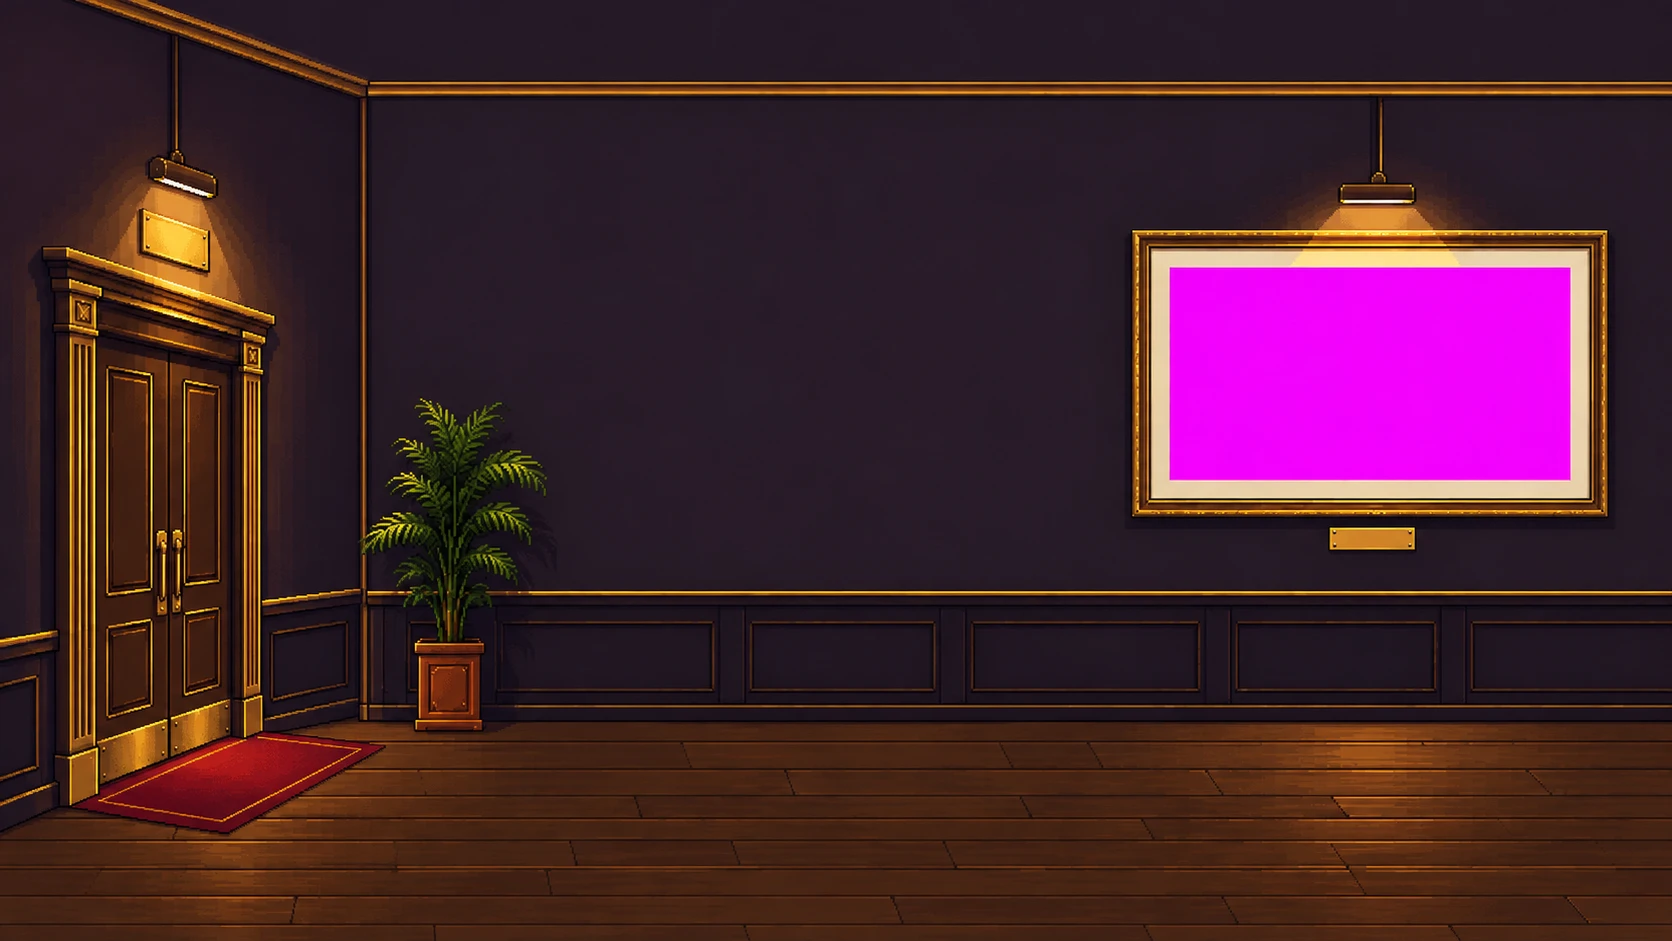
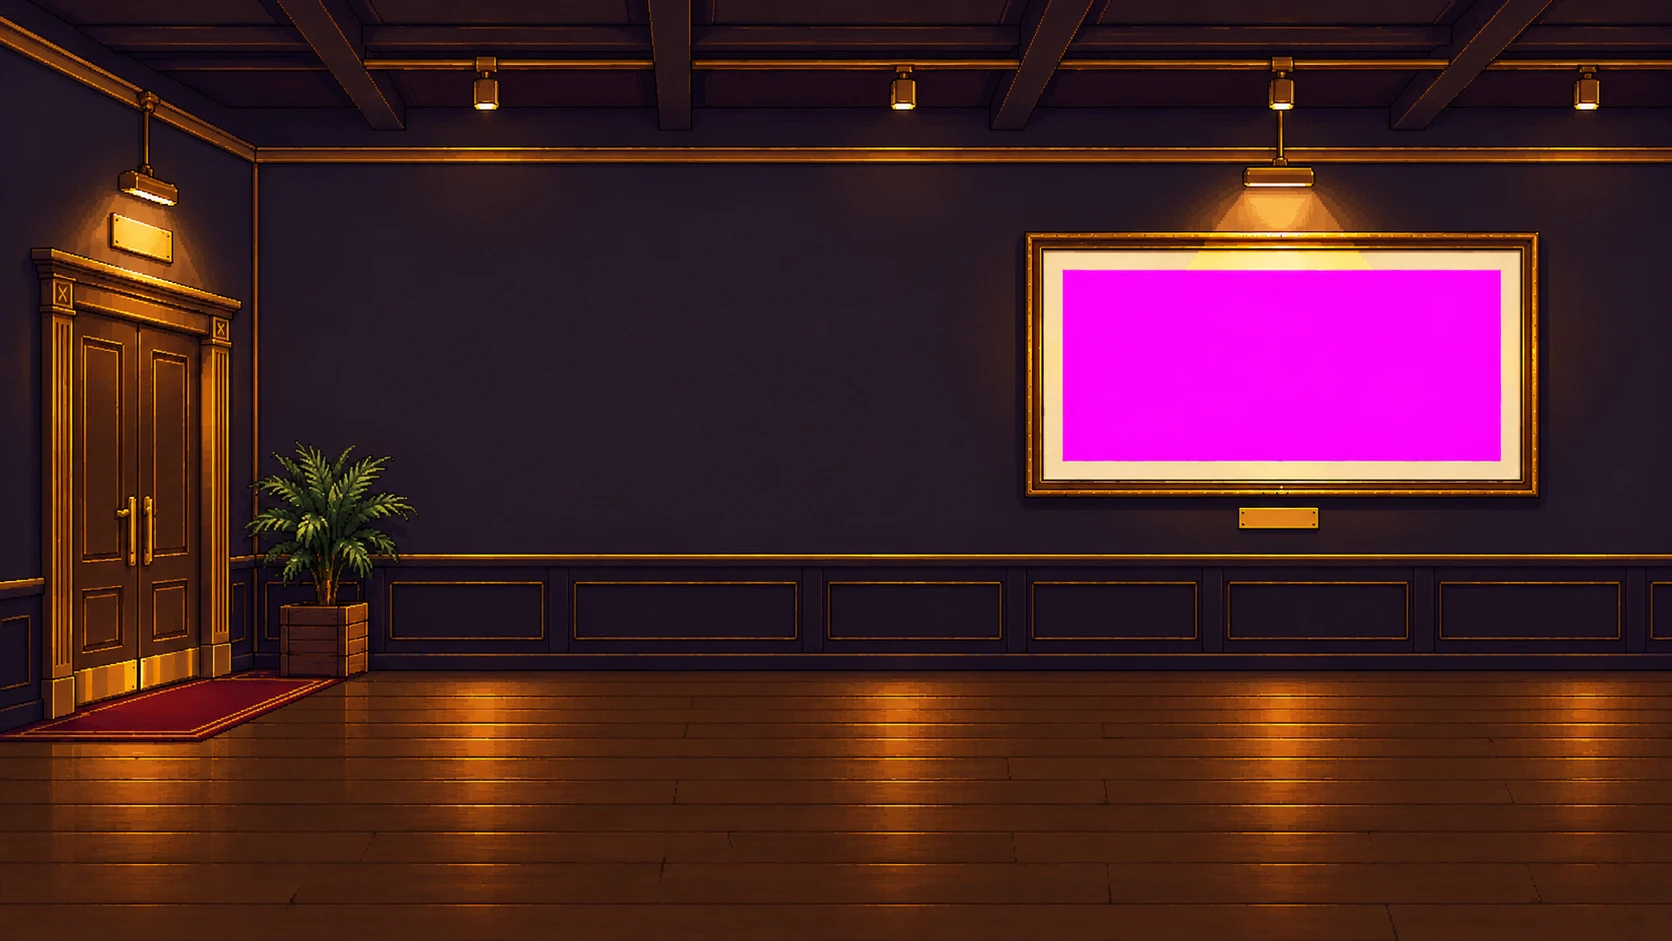
Gallery: new entrance, wall and exit art
Swaps in the new gallery images (beamed ceiling, track lights) and
re-measures frames, plaques and doors. The new exit image's rooftop
parapet sits higher than the rooftop footer art, so build_gallery.py
now remaps the rooftop's rows in three bands (sky, parapet, floor)
with nearest-row sampling so the two meet exactly; rooftop floor,
bench and bulb positions follow the remap.

diff --git a/js/main.js b/js/main.js
@@ -148,12 +148,12 @@
   const GALLERY = {
     w: 6496, h: 941,
     floor: 770,                 // his feet on the wooden floor
-    enter: 165, exit: 3930,     // double doors he comes in by; the door out to the roof
-    frames: [[1170, 268, 400, 212], [2124, 232, 165, 232], [2474, 242, 404, 220], [3301, 277, 355, 190]],
-    plaques: [[1330, 528, 84, 21], [2165, 512, 85, 20], [2632, 512, 86, 20], [3441, 512, 77, 19]],
+    enter: 140, exit: 3930,     // double doors he comes in by; the door out to the roof
+    frames: [[1063, 270, 438, 191], [2064, 263, 152, 197], [2436, 272, 424, 188], [3351, 277, 323, 178]],
+    plaques: [[1240, 508, 78, 20], [2107, 505, 70, 19], [2608, 505, 76, 20], [3475, 500, 75, 19]],
     // rooftop at dawn (the footer): he steps out at `out`, walks to the bench under the string lights
-    bulbs: [[5749, 414], [5803, 436], [5873, 454], [5939, 460], [6005, 460], [6055, 454], [6104, 444], [6152, 431], [6201, 412]],
-    roof: { x: 4100, floor: 800, out: 4300, seat: 5869, seatFloor: 722, sky: [5000, 60, 1000] },
+    bulbs: [[5749, 382], [5803, 402], [5873, 418], [5939, 424], [6005, 424], [6055, 418], [6104, 409], [6152, 397], [6201, 380]],   // rooftop rows are remapped by build_gallery.py
+    roof: { x: 4100, floor: 781, out: 4300, seat: 5869, seatFloor: 692, sky: [5000, 60, 1000] },
   };
 
   // Map an element (sized to its quad's bounding box) onto a quad with a projective transform

diff --git a/index.html b/index.html
@@ -8,7 +8,7 @@
   <link rel="preconnect" href="https://fonts.googleapis.com" />
   <link rel="preconnect" href="https://fonts.gstatic.com" crossorigin />
   <link href="https://fonts.googleapis.com/css2?family=Press+Start+2P&family=Silkscreen&family=VT323&family=Noto+Sans+Devanagari:wght@700&display=swap" rel="stylesheet" />
-  <link rel="stylesheet" href="styles.css?v=1790706319" />
+  <link rel="stylesheet" href="styles.css?v=1790706465" />
 </head>
 <body class="ride" data-location="street">
   <a class="skip-link" href="#subway">Skip to projects</a>
@@ -160,8 +160,8 @@
   <!-- train wipe used when boarding a project -->
   <div class="train-wipe" aria-hidden="true"><div class="train-car"></div></div>
 
-  <script src="js/data.js?v=1790706319"></script>
-  <script src="js/sprite.js?v=1790706319"></script>
-  <script src="js/main.js?v=1790706319"></script>
+  <script src="js/data.js?v=1790706465"></script>
+  <script src="js/sprite.js?v=1790706465"></script>
+  <script src="js/main.js?v=1790706465"></script>
 </body>
 </html>

diff --git a/project.html b/project.html
@@ -7,8 +7,8 @@
   <link rel="preconnect" href="https://fonts.googleapis.com" />
   <link rel="preconnect" href="https://fonts.gstatic.com" crossorigin />
   <link href="https://fonts.googleapis.com/css2?family=Press+Start+2P&family=Silkscreen&family=VT323&family=Noto+Sans+Devanagari:wght@700&display=swap" rel="stylesheet" />
-  <link rel="stylesheet" href="styles.css?v=1790706319" />
-  <link rel="stylesheet" href="project.css?v=1790706319" />
+  <link rel="stylesheet" href="styles.css?v=1790706465" />
+  <link rel="stylesheet" href="project.css?v=1790706465" />
 </head>
 <body class="project-page" data-location="subway">
   <header class="hud">
@@ -63,7 +63,7 @@
 
   <div class="pixel-wipe" aria-hidden="true"></div>
 
-  <script src="js/data.js?v=1790706319"></script>
+  <script src="js/data.js?v=1790706465"></script>
   <script>
     (function () {
       const list = SITE.projects;

diff --git a/js/sprite.js b/js/sprite.js
@@ -34,7 +34,7 @@
   const HOLE = { dx: 35, w: 64, h: 16 }; // manhole centre offset from the anchor, in the crouch frames
 
   const img = new Image();
-  img.src = "assets/character/sheet.webp?v=1790706319";
+  img.src = "assets/character/sheet.webp?v=1790706465";
   let ready = false;
   const onReady = [];
   img.onload = () => { ready = true; onReady.forEach((f) => f()); };

diff --git a/tools/build_gallery.py b/tools/build_gallery.py
@@ -15,6 +15,17 @@ from scipy import ndimage as nd
 SRC = "assets/gallery/src/"
 W, H, OV = 1672, 941, 64
 parts = [np.array(Image.open(SRC + n).convert("RGBA")) for n in ("entry.webp", "wall.webp", "exit.webp", "rooftop.webp")]
+
+# The rooftop art's parapet (rows 612-708) sits lower than the exit image's (564-676).
+# Remap its rows in three bands (sky, parapet, floor) with nearest-row sampling so they meet.
+def remap_rows(img, src, dst):
+    rows = np.zeros(H, int)
+    for (s0, s1), (d0, d1) in zip(zip(src, src[1:]), zip(dst, dst[1:])):
+        for y in range(d0, d1):
+            rows[y] = min(H - 1, int(s0 + (y - d0 + 0.5) * (s1 - s0) / (d1 - d0)))
+    return img[rows]
+ROOF_SRC, ROOF_DST = [0, 612, 708, H], [0, 564, 676, H]
+parts[3] = remap_rows(parts[3], ROOF_SRC, ROOF_DST)
 out = np.zeros((H, W * len(parts) - OV * (len(parts) - 1), 4), np.uint8)
 bayer = np.array([[0, 8, 2, 10], [12, 4, 14, 6], [3, 11, 1, 9], [15, 7, 13, 5]]) / 16.0
 x = 0
